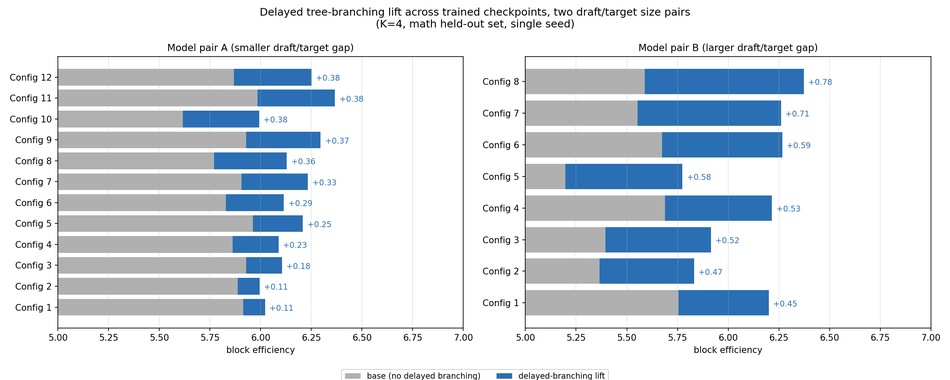
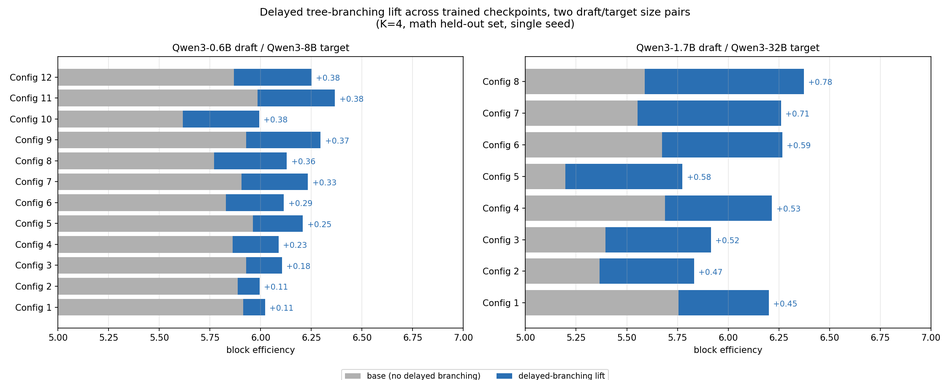
docs(notes): make Medium draft more result-oriented (honest subset)
- Frame block efficiency as the direct throughput multiplier (target
  model dominates cost), so it reads as the speedup metric it is
- Add a profiling paragraph grounded in the real telemetry: the harness
  is draft-dispatch-bound at low GPU util, NOT memory-bandwidth-bound,
  which is why block efficiency (not harness tok/s) is the right target
- Name the datasets: GSM8K, Hendrycks MATH, OlympiadBench (the OOD set)
- Add the concrete DDTE lift (~0.8 tokens/call, ~14% on the larger pair)
- Put real Qwen3 model names on the chart titles/legends

Deliberately did NOT add fabricated wall-clock speedup or a
memory-bandwidth "win" -- the telemetry contradicts both.

Changed region(s): [[0.6716, 0.1158, 0.8853, 0.1447], [0.1526, 0.1158, 0.3663, 0.1447]]

diff --git a/notes/medium_article_draft.md b/notes/medium_article_draft.md
@@ -15,7 +15,7 @@ The project combined research, systems engineering, and experimental design: rep
 
 ## The problem
 
-LLMs decode one token at a time, and each token costs a full forward pass. Speculative decoding adds a small, fast draft model that proposes several tokens ahead. A large target model then verifies them in one parallel pass and accepts the longest matching prefix. The core metric is block efficiency: accepted tokens per target call.
+LLMs decode one token at a time, and each token costs a full forward pass. Speculative decoding adds a small, fast draft model that proposes several tokens ahead. A large target model then verifies them in one parallel pass and accepts the longest matching prefix. The core metric is block efficiency: accepted tokens per target-model call. Since the target model dominates inference cost, block efficiency is a direct, hardware-agnostic multiplier on decode throughput, which is why it, not raw tokens-per-second from a single harness, is the number worth optimizing.
 
 Raising block efficiency means raising the draft's acceptance rate, and the standard lever for that is knowledge distillation: training the draft to match the target's output distribution. The project's central question was which distillation objective actually moves block efficiency, tested on a Qwen 0.6B/8B draft-target pair and a wider Qwen 1.7B/32B pair.
 
@@ -27,6 +27,8 @@ Raising block efficiency means raising the draft's acceptance rate, and the stan
 I built a multi-GPU experiment pipeline for parallel training, checkpoint recovery after crashes, automated evaluation across every verifier by tree-width by dataset combination, and cross-checkpoint analysis at scale. It started on a memory-constrained Colab T4, needing 4-bit quantization just to fit the 8B target, then Kaggle's dual-T4 setup, then A100s for the full experiment sweeps. A separate vLLM-based pipeline generated tens of thousands of samples for pass@k benchmarking, using a paged KV-cache (each token's attention keys and values, cached so the model never recomputes them) plus continuous batching to stay fast at that scale, with resumable, checkpoint-skipping logic so a killed run never lost completed work.
 
 A typical research iteration involved implementing a new objective in PyTorch, validating its gradients on a handful of toy steps, launching multi-GPU sweeps across all 500+ runs tracked in Weights & Biases, evaluating every checkpoint across the full verifier grid, and extending custom analysis scripts to check whether observed gains exceeded the estimated noise floor rather than being single-seed noise.
+
+The evaluation harness logs a full per-run profile: time split across the draft, target, verification, and cache stages, plus GPU SM and HBM-bus utilization, PCIe/NVLink throughput, and peak VRAM. Those counters are what confirmed block efficiency was the right target. The harness's wall-clock was dominated by draft-side dispatch overhead at low GPU utilization, not the target-model or memory-bandwidth cost a production serving path is bound by, so tokens-per-second from it would have measured the harness, not the method.
 
 One infrastructure bug is worth calling out on its own. FlashAttention and PyTorch's native SDPA kernel compute mathematically identical attention but round differently in bf16, almost always invisibly. Here, acceptance is a hard threshold, so a last-decimal rounding difference can flip one accepted token and cascade through the rest of a generation. Two runs on two machines, identical except for attention backend, diverged by roughly 0.2 block efficiency, comparable to the effects I was trying to measure. Fixing it meant pinning one backend everywhere and logging which ran, which required reasoning about kernel-level numerics, not model architecture.
 
@@ -40,9 +42,9 @@ Two further hypotheses looked unlikely to work before I ran them, and I confirme
 
 ## Extending existing methods
 
-Multi-rollout distillation, sampling several stochastic continuations from the target instead of a single greedy one, was the one training-side change that beat the baseline. Broader coverage of the target's actual output distribution outperformed standard JSD distillation, with a sweet spot at four rollouts, and the gain held on an out-of-distribution eval set.
+Multi-rollout distillation, sampling several stochastic continuations from the target instead of a single greedy one, was the one training-side change that beat the baseline. Broader coverage of the target's actual output distribution outperformed standard JSD distillation, with a sweet spot at four rollouts. Trained only on MATH, the gain held on OlympiadBench, a harder benchmark the model never saw in training, so the improvement generalized rather than fitting one distribution.
 
-I found the strongest improvement on the verification side. A recent technique delays where the draft's speculation tree branches, committing to a single stem before splitting into candidates, targeting the point where draft and target distributions actually diverge instead of branching at the first token. The original paper only evaluated this on untrained draft models. I swept it across every trained checkpoint in the project, on both the 0.6B/8B and 1.7B/32B pairs, and it improved block efficiency on nearly all of them, with larger gains at greater speculation depth and on weaker starting checkpoints. To the best of my knowledge, I could not find a prior evaluation of this technique on trained, distilled drafts. Stacking it on the multi-rollout distillation above produced the best single block-efficiency result in the project.
+I found the strongest improvement on the verification side. A recent technique delays where the draft's speculation tree branches, committing to a single stem before splitting into candidates, targeting the point where draft and target distributions actually diverge instead of branching at the first token. The original paper only evaluated this on untrained draft models. I swept it across every trained checkpoint in the project, on both the 0.6B/8B and 1.7B/32B pairs, and it improved block efficiency on nearly all of them, by up to roughly 0.8 additional accepted tokens per target call (about 14% on the larger pair), with larger gains at greater speculation depth and on weaker starting checkpoints. To the best of my knowledge, I could not find a prior evaluation of this technique on trained, distilled drafts. Stacking it on the multi-rollout distillation above produced the best single block-efficiency result in the project.
 
 I then derived the branch-point setting instead of grid-searching it. It tracks each checkpoint's own mean acceptance depth, so a stronger draft branches later on its own, a value read from the model's measured behavior rather than a search.
 
@@ -60,7 +62,7 @@ Across checkpoints, this revealed effects invisible to block efficiency alone. S
 
 I added two further axes: forgetting (regression on previously-solved problems mid-training, a backward-transfer check) and difficulty-bucketed accuracy (easy, medium, hard, split by baseline performance). Both surfaced runs that looked healthy in aggregate but were quietly regressing on already-solved problems, or only helping the easy bucket.
 
-Which dataset I evaluated on mattered almost as much as which checkpoint. I ran everything across three benchmarks of increasing difficulty: grade-school word problems, a harder competition-math set, and an olympiad-level set. Both block efficiency and pass@k, and how much training improved either, shifted noticeably by dataset. The easiest set was close to saturated for every model, so it barely separated good runs from bad; the harder sets showed far more spread in both baseline scores and improvement size.
+Which dataset I evaluated on mattered almost as much as which checkpoint. I ran everything across three benchmarks of increasing difficulty: GSM8K (grade-school word problems), Hendrycks MATH (competition level), and OlympiadBench (olympiad level). Both block efficiency and pass@k, and how much training improved either, shifted noticeably by dataset. GSM8K was close to saturated for every model, so it barely separated good runs from bad; the harder sets showed far more spread in both baseline scores and improvement size.
 
 None of this is meaningful without knowing how much run-to-run noise to expect. I estimated a per-k noise floor from near-duplicate configurations and compared it against the full spread observed across every setting swept.
 
